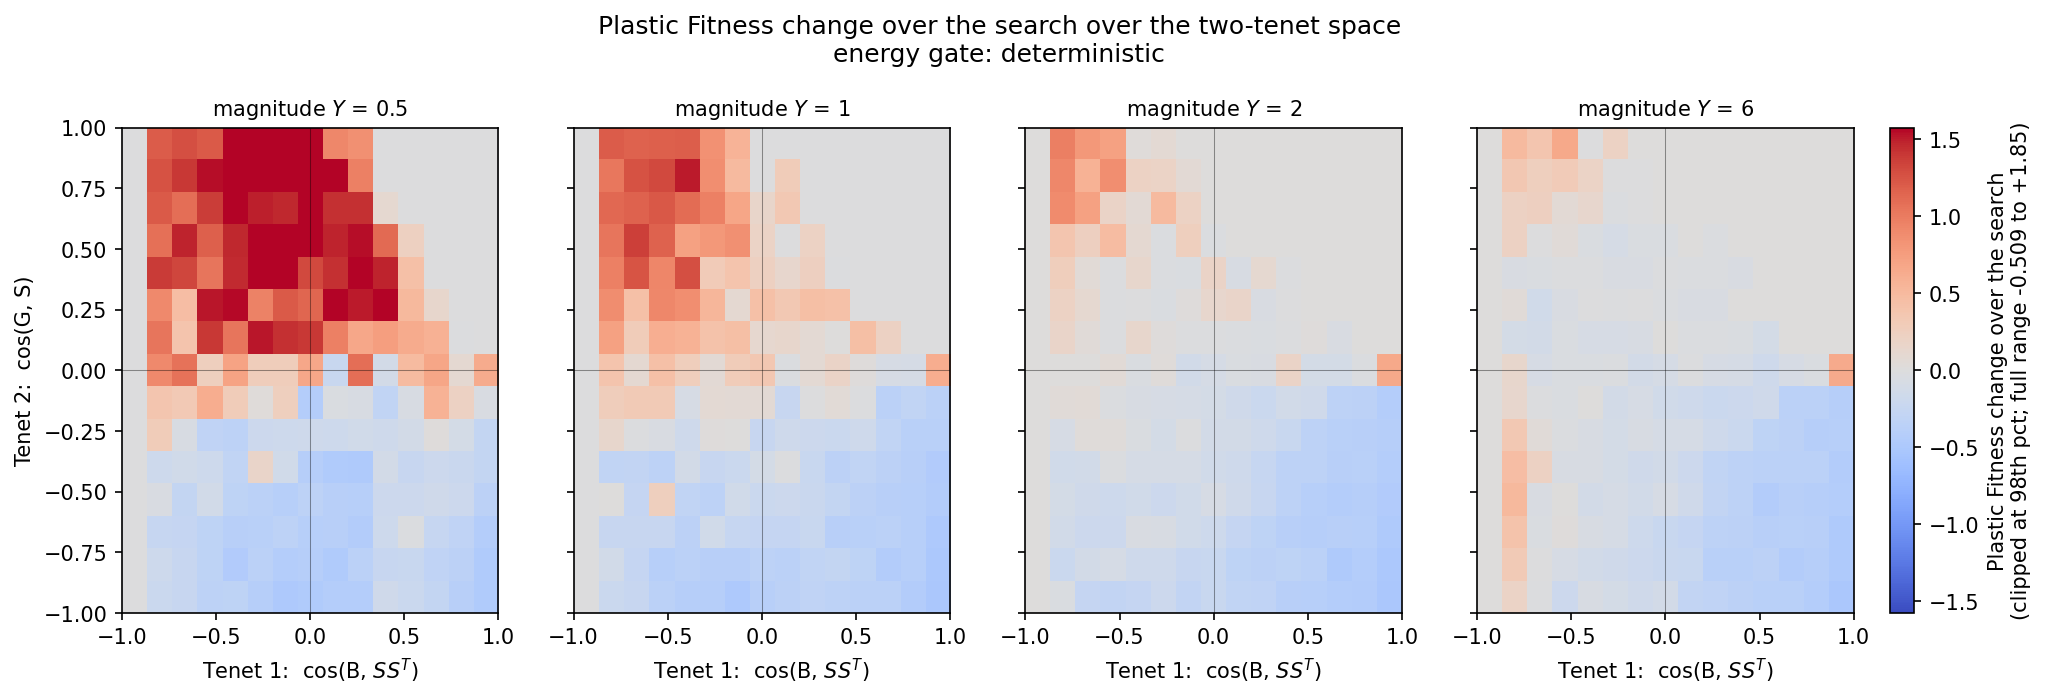
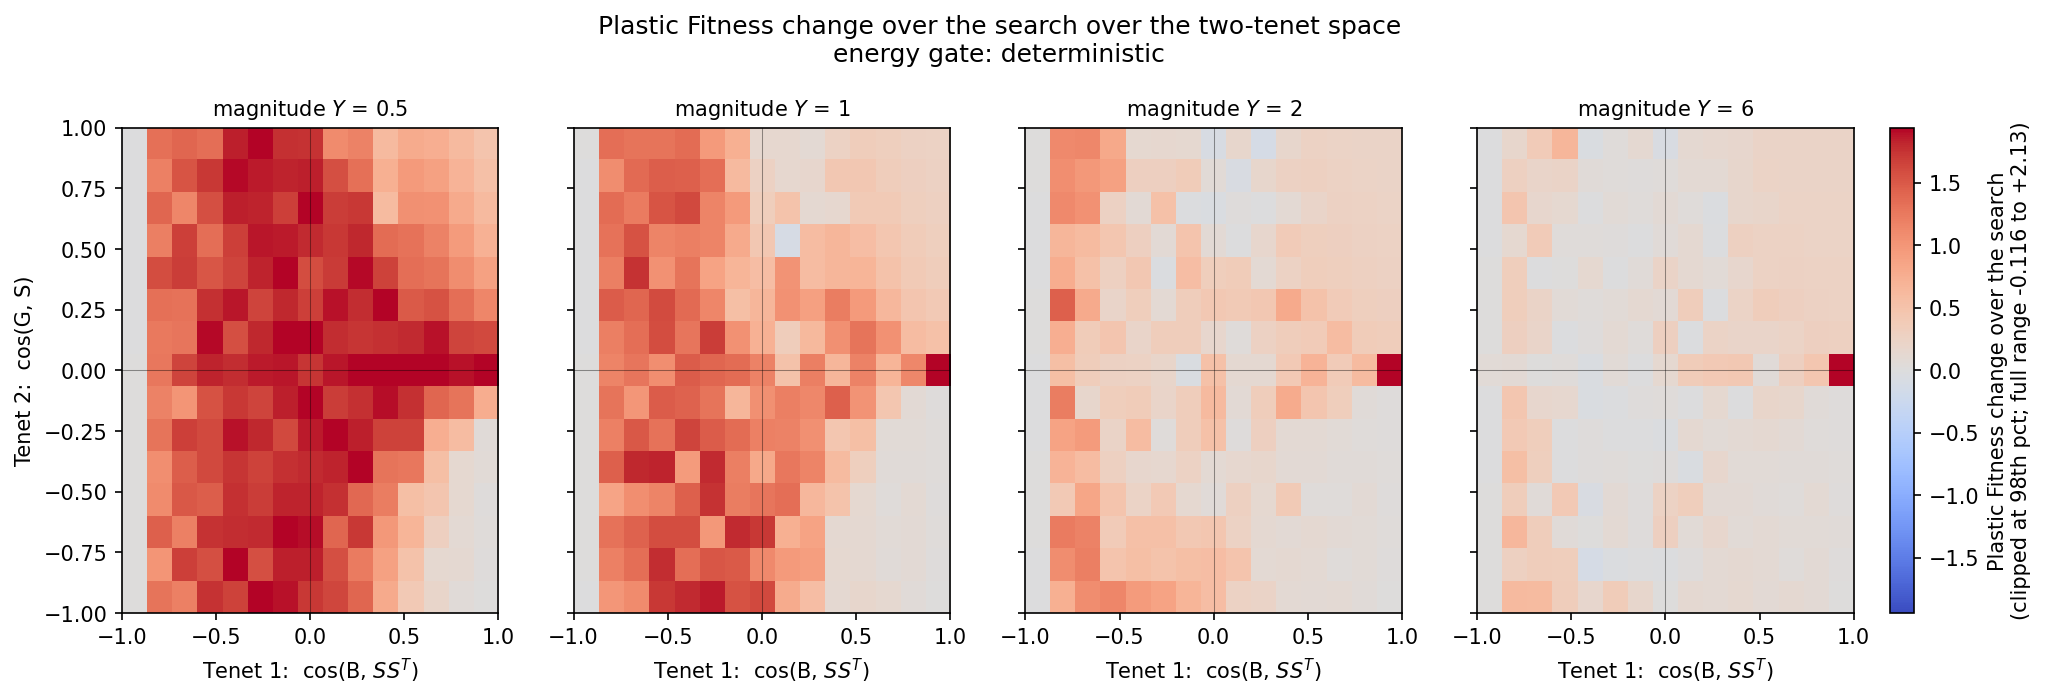
Change

diff --git a/Config.py b/Config.py
@@ -102,7 +102,7 @@ class Config:
     M: int = 100                                # mutation attempts per plastic search
     c: float = 1.0                              # single-gene mutation size
     eta: float = 0.5                            # contrastive learning rate for B
-    rounds: int = 10                            # R rounds of develop -> plasticity -> induct
+    rounds: int = 20                            # R rounds of develop -> plasticity -> induct
     mutation_type: str = "phenotype"            # Can be "single-gene" or "phenotype"
     normalise_energy: bool = True               # Rayleigh quotient: direction only
     r_T: int = None                             # redevelopment time after updating
